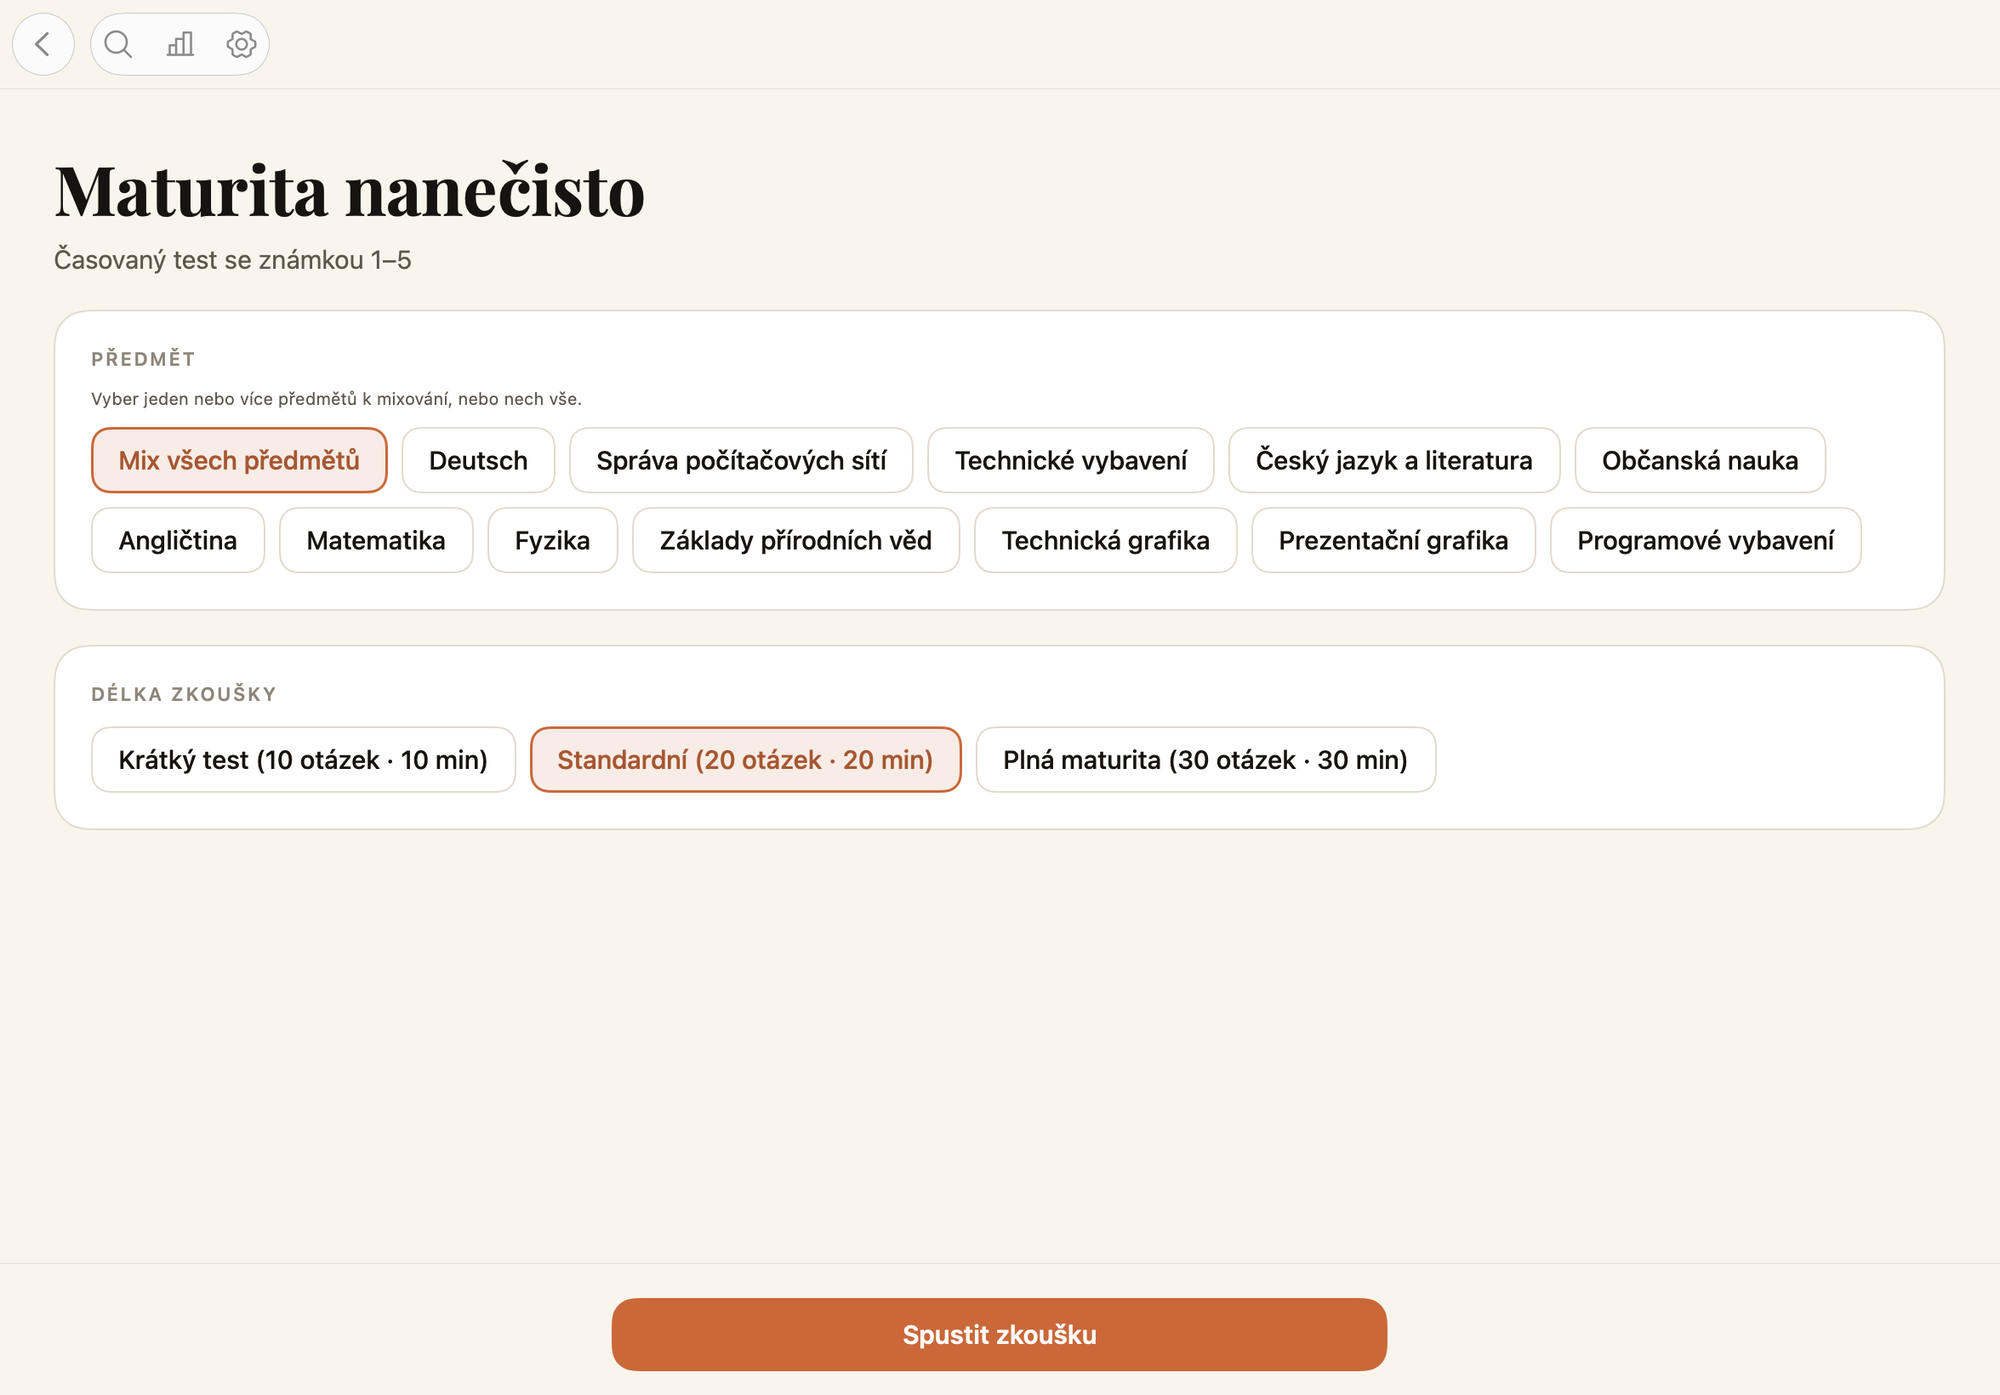
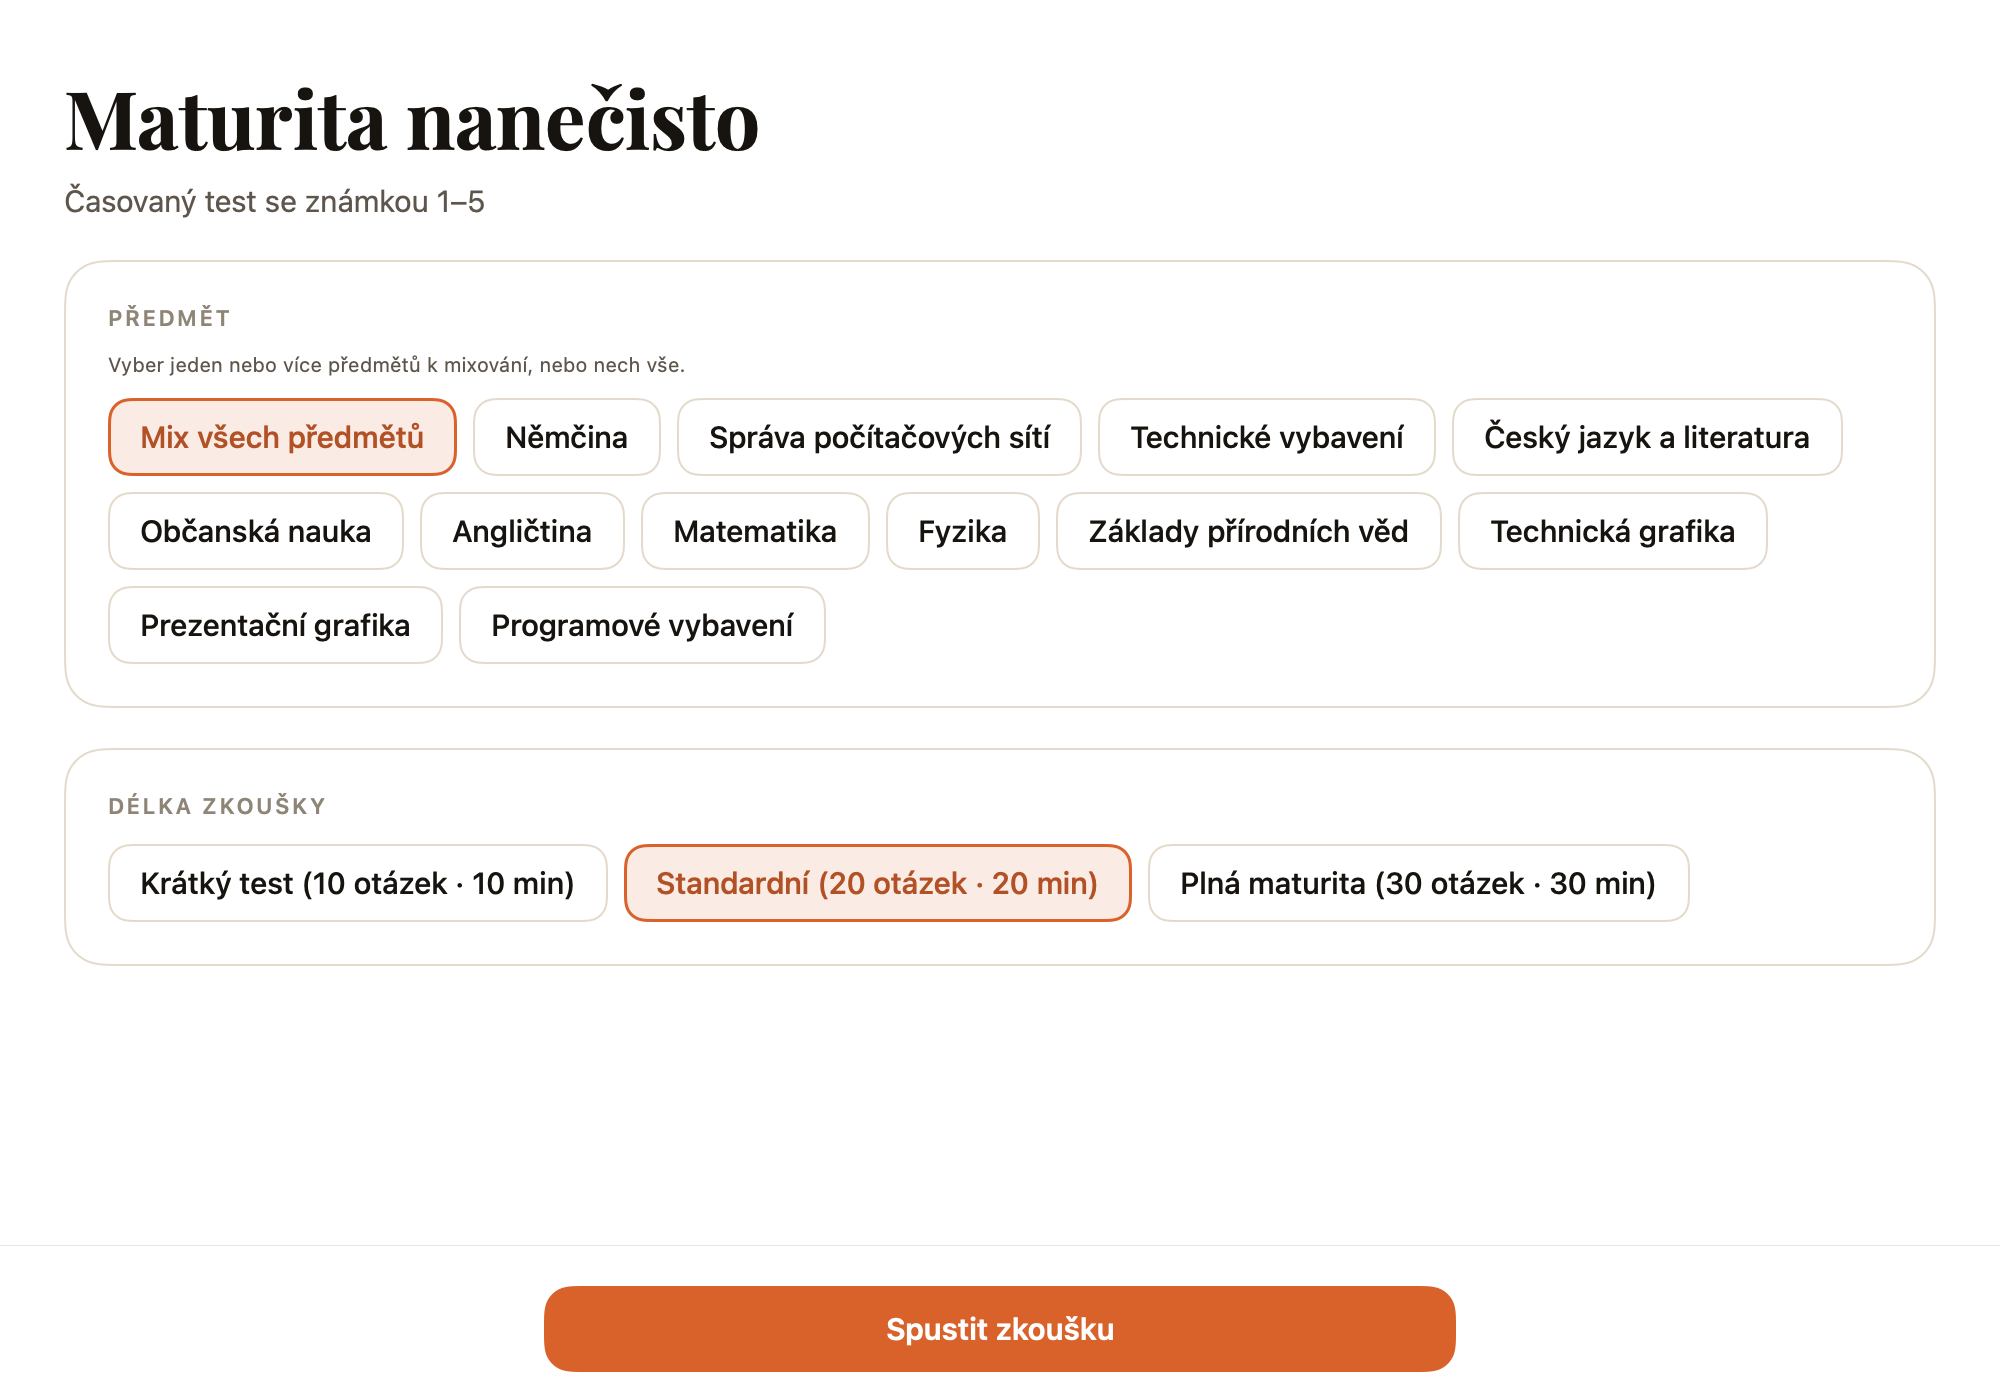
Update website with fresh Graduately 1.3 Retina screenshots (Home, GradAI, Mock Exam, Leaderboard, Books)

diff --git a/index.html b/index.html
@@ -1194,6 +1194,24 @@
           <div class="features-list">
             <article class="feature-card glass-strong">
               <div class="feature-body">
+                <h3 class="feature-title">GradAI tutor přímo u látky i četby</h3>
+                <p class="feature-text">
+                  Nerozumíš zadání, potřebuješ shrnout knihu k maturitě nebo si
+                  procvičit konkrétní téma? GradAI odpovídá česky i anglicky
+                  přímo v aplikaci a vede tě krok za krokem.
+                </p>
+              </div>
+              <div class="feature-media">
+                <img
+                  src="screenshots/gradai-app.png"
+                  alt="GradAI tutor vysvětlující hlavní myšlenku a motivy Proměny od Franze Kafky v Graduately"
+                  loading="lazy"
+                />
+              </div>
+            </article>
+
+            <article class="feature-card feature-card--reverse glass-strong">
+              <div class="feature-body">
                 <h3 class="feature-title">
                   Maturita nanečisto, opakování chyb i PDF taháky
                 </h3>
@@ -1208,7 +1226,25 @@
               <div class="feature-media">
                 <img
                   src="screenshots/exam-app.png"
-                  alt="Maturita nanečisto — výběr předmětů k mixování a délky zkoušky v Graduately"
+                  alt="Maturita nanečisto — výběr předmětů k mixování a délky zkoušky v Graduately 1.3"
+                  loading="lazy"
+                />
+              </div>
+            </article>
+
+            <article class="feature-card glass-strong">
+              <div class="feature-body">
+                <h3 class="feature-title">Denní série, XP a žebříček studentů</h3>
+                <p class="feature-text">
+                  Za každé dokončené cvičení získáváš XP a udržuješ svou denní
+                  sérii se Streak Freeze. V žebříčku se můžeš porovnávat s
+                  ostatními podle bodů XP, délky série i počtu splněných cvičení.
+                </p>
+              </div>
+              <div class="feature-media">
+                <img
+                  src="screenshots/leaderboard-app.png"
+                  alt="Žebříček studentů podle XP, série a splněných cvičení v Graduately 1.3"
                   loading="lazy"
                 />
               </div>
@@ -1216,18 +1252,18 @@
 
             <article class="feature-card feature-card--reverse glass-strong">
               <div class="feature-body">
-                <h3 class="feature-title">Ročníky, učebnice a maturitní četba</h3>
+                <h3 class="feature-title">82 knih maturitní četby a 4 ročníky</h3>
                 <p class="feature-text">
-                  Každý předmět má vlastní barvu a přehlednou cestu rozdělenou na
-                  čtyři ročníky, lekce nebo 82 knih maturitní četby. U němčiny
-                  nechybí učebnice Neue Freunde, Aus aller Welt a Bei uns zu
-                  Hause i čtyři ročníky od A1 po B1.
+                  Každá z 82 maturitních knih má přehledné zápisky, kvíz i
+                  řazení děje. Všech 13 předmětů má vlastní barvu a jasně
+                  rozdělené ročníky — včetně německých učebnic Neue Freunde, Aus
+                  aller Welt a Bei uns zu Hause.
                 </p>
               </div>
               <div class="feature-media">
                 <img
-                  src="screenshots/subjects-app.png"
-                  alt="Přehled učebnic a ročníků němčiny v Graduately"
+                  src="screenshots/books-app.png"
+                  alt="Přehled 82 knih maturitní četby v aplikaci Graduately 1.3"
                   loading="lazy"
                 />
               </div>
